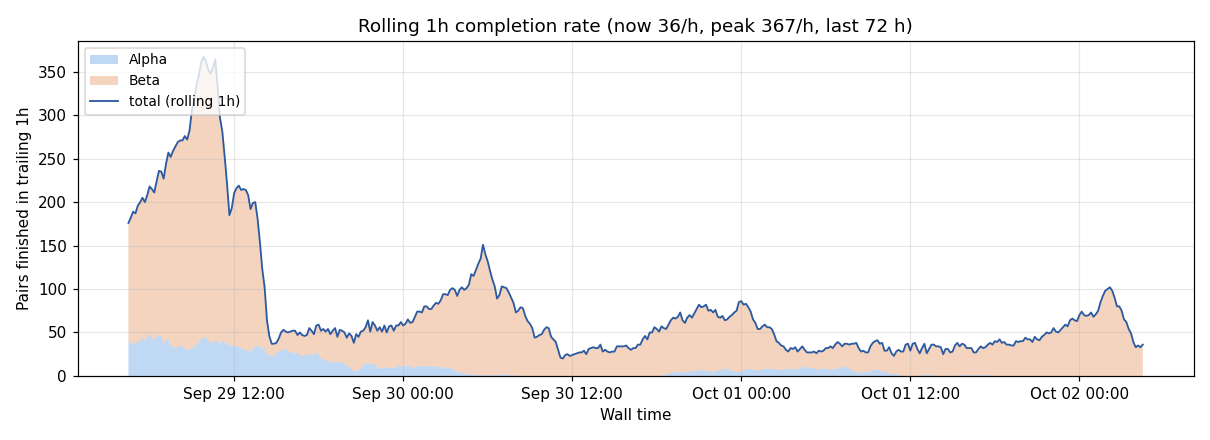
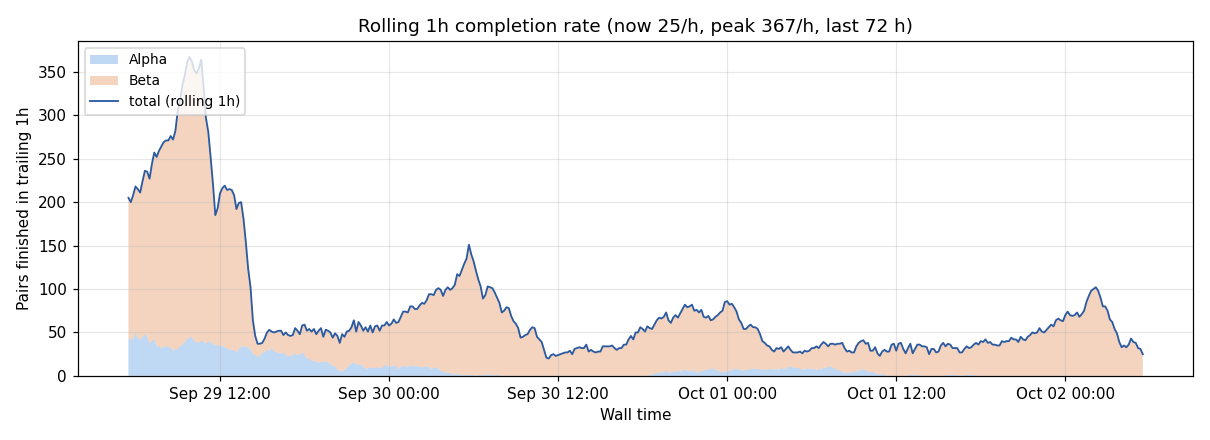
auto: 2026-10-02 05:31:22

diff --git a/index.html b/index.html
@@ -24,24 +24,24 @@ tr:nth-child(even) { background: #fafafa; }
 </style>
 </head><body>
 <h1>AF3 Campaign Dashboard</h1>
-<p class="stamp">Last updated: <strong>2026-10-02 04:31 EDT</strong> · regenerated on the cluster hourly · this page auto-reloads every 30 min</p>
+<p class="stamp">Last updated: <strong>2026-10-02 05:32 EDT</strong> · regenerated on the cluster hourly · this page auto-reloads every 30 min</p>
 
 <div class="cards">
-  <div class="card"><div class="v">34,495</div><div class="l">Total COMPLETED pairs</div></div>
-  <div class="card"><div class="v">297</div><div class="l">Done today</div></div>
-  <div class="card"><div class="v">1,039</div><div class="l">Last 24 h rate</div></div>
+  <div class="card"><div class="v">34,523</div><div class="l">Total COMPLETED pairs</div></div>
+  <div class="card"><div class="v">325</div><div class="l">Done today</div></div>
+  <div class="card"><div class="v">1,038</div><div class="l">Last 24 h rate</div></div>
   <div class="card"><div class="v">22 / 2</div><div class="l">Alpha jobs running / pending (1 GPU each)</div></div>
-  <div class="card"><div class="v">7 / 9</div><div class="l">Beta jobs running / pending (4× GB200 each)</div></div>
-  <div class="card"><div class="v">998</div><div class="l">Beta pairs, last 24 h</div></div>
-  <div class="card"><div class="v">1.3 days</div><div class="l">ETA, adjusted for pair size (1,255 pairs left)</div></div>
+  <div class="card"><div class="v">8 / 8</div><div class="l">Beta jobs running / pending (4× GB200 each)</div></div>
+  <div class="card"><div class="v">1,004</div><div class="l">Beta pairs, last 24 h</div></div>
+  <div class="card"><div class="v">1.2 days</div><div class="l">ETA, adjusted for pair size (1,227 pairs left)</div></div>
   <div class="card"><div class="v">1.2 days</div><div class="l">ETA, linear (pairs left / last-24h pairs)</div></div>
 </div>
 
 <h2>Beta (GB200) jobs</h2>
-<p class='stamp'>Beta snapshot 10 min old (refreshed every 10 min from the Beta login node).</p>
+<p class='stamp'>Beta snapshot 2 min old (refreshed every 10 min from the Beta login node).</p>
 <div class="queue-table">
 <table><thead><tr><th>Job</th><th>State</th><th>Elapsed</th><th>Left</th><th>Pairs done</th><th>Node / reason</th></tr></thead>
-<tbody><tr><td>af3_beta_p104_pk7</td><td>PENDING</td><td>0:00</td><td>1-00:00:00</td><td>0 / 52</td><td>pending: (Priority)</td></tr><tr><td>af3_beta_p104_pk7</td><td>PENDING</td><td>0:00</td><td>1-00:00:00</td><td>0 / 51</td><td>pending: (Priority)</td></tr><tr><td>af3_beta_p131_pk2</td><td>PENDING</td><td>0:00</td><td>1-00:00:00</td><td>0 / 51</td><td>pending: (Priority)</td></tr><tr><td>af3_beta_p131_pk9</td><td>PENDING</td><td>0:00</td><td>1-00:00:00</td><td>0 / 88</td><td>pending: (Priority)</td></tr><tr><td>af3_beta_p131_pk9</td><td>PENDING</td><td>0:00</td><td>1-00:00:00</td><td>0 / 88</td><td>pending: (Priority)</td></tr><tr><td>af3_beta_p131_pk8</td><td>PENDING</td><td>0:00</td><td>1-00:00:00</td><td>0 / 88</td><td>pending: (Priority)</td></tr><tr><td>af3_beta_p070_pk5</td><td>PENDING</td><td>0:00</td><td>1-00:00:00</td><td>0 / 70</td><td>pending: (Priority)</td></tr><tr><td>af3_beta_p070_pk5</td><td>PENDING</td><td>0:00</td><td>1-00:00:00</td><td>0 / 69</td><td>pending: (Priority)</td></tr><tr><td>af3_beta_p070_pk5</td><td>PENDING</td><td>0:00</td><td>1-00:00:00</td><td>0 / 70</td><td>pending: (Priority)</td></tr><tr><td>af3_beta_p078_pk4</td><td>RUNNING</td><td>4:46:04</td><td>19:13:56</td><td>8 / 100</td><td>b2-13-s1-dgx-02-c03</td></tr><tr><td>af3_beta_p078_pk4</td><td>RUNNING</td><td>4:52:36</td><td>19:07:24</td><td>8 / 99</td><td>b2-16-s1-dgx-02-c06</td></tr><tr><td>af3_beta_p071_pk3</td><td>RUNNING</td><td>6:36:14</td><td>17:23:46</td><td>17 / 93</td><td>b1-28-s1-dgx-01-c09</td></tr><tr><td>af3_beta_p071_pk3</td><td>RUNNING</td><td>7:13:27</td><td>16:46:33</td><td>21 / 93</td><td>b3-15-s1-dgx-03-c05</td></tr><tr><td>af3_beta_p078_pk4</td><td>RUNNING</td><td>6:35:14</td><td>17:24:46</td><td>15 / 98</td><td>b1-14-s1-dgx-01-c04</td></tr><tr><td>af3_beta_p104_pk8</td><td>RUNNING</td><td>3:41:07</td><td>20:18:53</td><td>1 / 50</td><td>b2-32-s1-dgx-02-c13</td></tr><tr><td>af3_beta_p104_pk7</td><td>RUNNING</td><td>4:19:53</td><td>19:40:07</td><td>4 / 50</td><td>b1-33-s1-dgx-01-c14</td></tr></tbody></table>
+<tbody><tr><td>af3_beta_p104_pk7</td><td>PENDING</td><td>0:00</td><td>1-00:00:00</td><td>0 / 52</td><td>pending: (Priority)</td></tr><tr><td>af3_beta_p131_pk2</td><td>PENDING</td><td>0:00</td><td>1-00:00:00</td><td>0 / 51</td><td>pending: (Priority)</td></tr><tr><td>af3_beta_p131_pk9</td><td>PENDING</td><td>0:00</td><td>1-00:00:00</td><td>0 / 88</td><td>pending: (Priority)</td></tr><tr><td>af3_beta_p131_pk9</td><td>PENDING</td><td>0:00</td><td>1-00:00:00</td><td>0 / 88</td><td>pending: (Priority)</td></tr><tr><td>af3_beta_p131_pk8</td><td>PENDING</td><td>0:00</td><td>1-00:00:00</td><td>0 / 88</td><td>pending: (Priority)</td></tr><tr><td>af3_beta_p070_pk5</td><td>PENDING</td><td>0:00</td><td>1-00:00:00</td><td>0 / 70</td><td>pending: (Priority)</td></tr><tr><td>af3_beta_p070_pk5</td><td>PENDING</td><td>0:00</td><td>1-00:00:00</td><td>0 / 70</td><td>pending: (Priority)</td></tr><tr><td>af3_beta_p070_pk5</td><td>PENDING</td><td>0:00</td><td>1-00:00:00</td><td>0 / 69</td><td>pending: (Priority)</td></tr><tr><td>af3_beta_p078_pk4</td><td>RUNNING</td><td>5:56:08</td><td>18:03:52</td><td>12 / 100</td><td>b2-13-s1-dgx-02-c03</td></tr><tr><td>af3_beta_p078_pk4</td><td>RUNNING</td><td>6:02:40</td><td>17:57:20</td><td>12 / 99</td><td>b2-16-s1-dgx-02-c06</td></tr><tr><td>af3_beta_p071_pk3</td><td>RUNNING</td><td>7:46:18</td><td>16:13:42</td><td>21 / 93</td><td>b1-28-s1-dgx-01-c09</td></tr><tr><td>af3_beta_p071_pk3</td><td>RUNNING</td><td>8:23:31</td><td>15:36:29</td><td>26 / 93</td><td>b3-15-s1-dgx-03-c05</td></tr><tr><td>af3_beta_p078_pk4</td><td>RUNNING</td><td>7:45:18</td><td>16:14:42</td><td>16 / 98</td><td>b1-14-s1-dgx-01-c04</td></tr><tr><td>af3_beta_p104_pk8</td><td>RUNNING</td><td>4:51:11</td><td>19:08:49</td><td>4 / 50</td><td>b2-32-s1-dgx-02-c13</td></tr><tr><td>af3_beta_p104_pk7</td><td>RUNNING</td><td>5:29:57</td><td>18:30:03</td><td>4 / 50</td><td>b1-33-s1-dgx-01-c14</td></tr><tr><td>af3_beta_p104_pk7</td><td>RUNNING</td><td>57:42</td><td>23:02:18</td><td>0 / 51</td><td>b2-15-s1-dgx-02-c05</td></tr></tbody></table>
 </div>
 
 <h2>Alpha live queue</h2>
@@ -50,7 +50,7 @@ tr:nth-child(even) { background: #fafafa; }
     <h3>RUNNING (22)</h3>
     <div class="queue-table">
       <table><thead><tr><th>Job</th><th>Elapsed</th><th>Left</th><th>Reason / Node</th></tr></thead>
-      <tbody><tr><td>af3_p070_b001</td><td>14:27:44</td><td>9:32:16</td><td>alphagpu52</td></tr><tr><td>af3_p069_b002</td><td>14:31:15</td><td>9:28:45</td><td>alphagpu52</td></tr><tr><td>af3_p066_b003</td><td>17:23:14</td><td>6:36:46</td><td>alphagpu54</td></tr><tr><td>af3_p068_b001</td><td>16:31:15</td><td>7:28:45</td><td>alphagpu54</td></tr><tr><td>af3_p067_b002</td><td>16:33:02</td><td>7:26:58</td><td>alphagpu51</td></tr><tr><td>af3_p062_b001</td><td>21:43:18</td><td>2:16:42</td><td>alphagpu53</td></tr><tr><td>af3_p066_b002</td><td>18:43:30</td><td>5:16:30</td><td>alphagpu51</td></tr><tr><td>af3_p066_b001</td><td>19:49:48</td><td>4:10:12</td><td>alphagpu51</td></tr><tr><td>af3_p065_b114</td><td>6:28:48</td><td>17:31:12</td><td>alphagpu53</td></tr><tr><td>af3_p065_b113</td><td>7:39:00</td><td>16:21:00</td><td>alphagpu54</td></tr><tr><td>af3_p065_b112</td><td>7:51:26</td><td>16:08:34</td><td>alphagpu51</td></tr><tr><td>af3_p064_b111</td><td>7:52:02</td><td>16:07:58</td><td>alphagpu54</td></tr><tr><td>af3_p064_b110</td><td>7:55:42</td><td>16:04:18</td><td>alphagpu52</td></tr><tr><td>af3_p064_b109</td><td>8:06:43</td><td>15:53:17</td><td>alphagpu51</td></tr><tr><td>af3_p064_b108</td><td>8:30:11</td><td>15:29:49</td><td>alphagpu52</td></tr><tr><td>af3_p063_b107</td><td>9:14:34</td><td>14:45:26</td><td>alphagpu54</td></tr><tr><td>af3_p063_b106</td><td>9:44:29</td><td>14:15:31</td><td>alphagpu53</td></tr><tr><td>af3_p064_b105</td><td>10:23:13</td><td>13:36:47</td><td>alphagpu52</td></tr><tr><td>af3_p063_b104</td><td>10:25:10</td><td>13:34:50</td><td>alphagpu51</td></tr><tr><td>af3_p064_b103</td><td>10:25:49</td><td>13:34:11</td><td>alphagpu53</td></tr><tr><td>af3_p063_b102</td><td>10:47:46</td><td>13:12:14</td><td>alphagpu54</td></tr><tr><td>af3_p063_b101</td><td>11:00:22</td><td>12:59:38</td><td>alphagpu51</td></tr></tbody></table>
+      <tbody><tr><td>af3_p070_b001</td><td>15:29:58</td><td>8:30:02</td><td>alphagpu52</td></tr><tr><td>af3_p069_b002</td><td>15:33:29</td><td>8:26:31</td><td>alphagpu52</td></tr><tr><td>af3_p066_b003</td><td>18:25:28</td><td>5:34:32</td><td>alphagpu54</td></tr><tr><td>af3_p068_b001</td><td>17:33:29</td><td>6:26:31</td><td>alphagpu54</td></tr><tr><td>af3_p067_b002</td><td>17:35:16</td><td>6:24:44</td><td>alphagpu51</td></tr><tr><td>af3_p062_b001</td><td>22:45:32</td><td>1:14:28</td><td>alphagpu53</td></tr><tr><td>af3_p066_b002</td><td>19:45:44</td><td>4:14:16</td><td>alphagpu51</td></tr><tr><td>af3_p066_b001</td><td>20:52:02</td><td>3:07:58</td><td>alphagpu51</td></tr><tr><td>af3_p065_b114</td><td>7:31:02</td><td>16:28:58</td><td>alphagpu53</td></tr><tr><td>af3_p065_b113</td><td>8:41:14</td><td>15:18:46</td><td>alphagpu54</td></tr><tr><td>af3_p065_b112</td><td>8:53:40</td><td>15:06:20</td><td>alphagpu51</td></tr><tr><td>af3_p064_b111</td><td>8:54:16</td><td>15:05:44</td><td>alphagpu54</td></tr><tr><td>af3_p064_b110</td><td>8:57:56</td><td>15:02:04</td><td>alphagpu52</td></tr><tr><td>af3_p064_b109</td><td>9:08:57</td><td>14:51:03</td><td>alphagpu51</td></tr><tr><td>af3_p064_b108</td><td>9:32:25</td><td>14:27:35</td><td>alphagpu52</td></tr><tr><td>af3_p063_b107</td><td>10:16:48</td><td>13:43:12</td><td>alphagpu54</td></tr><tr><td>af3_p063_b106</td><td>10:46:43</td><td>13:13:17</td><td>alphagpu53</td></tr><tr><td>af3_p064_b105</td><td>11:25:27</td><td>12:34:33</td><td>alphagpu52</td></tr><tr><td>af3_p063_b104</td><td>11:27:24</td><td>12:32:36</td><td>alphagpu51</td></tr><tr><td>af3_p064_b103</td><td>11:28:03</td><td>12:31:57</td><td>alphagpu53</td></tr><tr><td>af3_p063_b102</td><td>11:50:00</td><td>12:10:00</td><td>alphagpu54</td></tr><tr><td>af3_p063_b101</td><td>12:02:36</td><td>11:57:24</td><td>alphagpu51</td></tr></tbody></table>
     </div>
   </div>
   <div>
